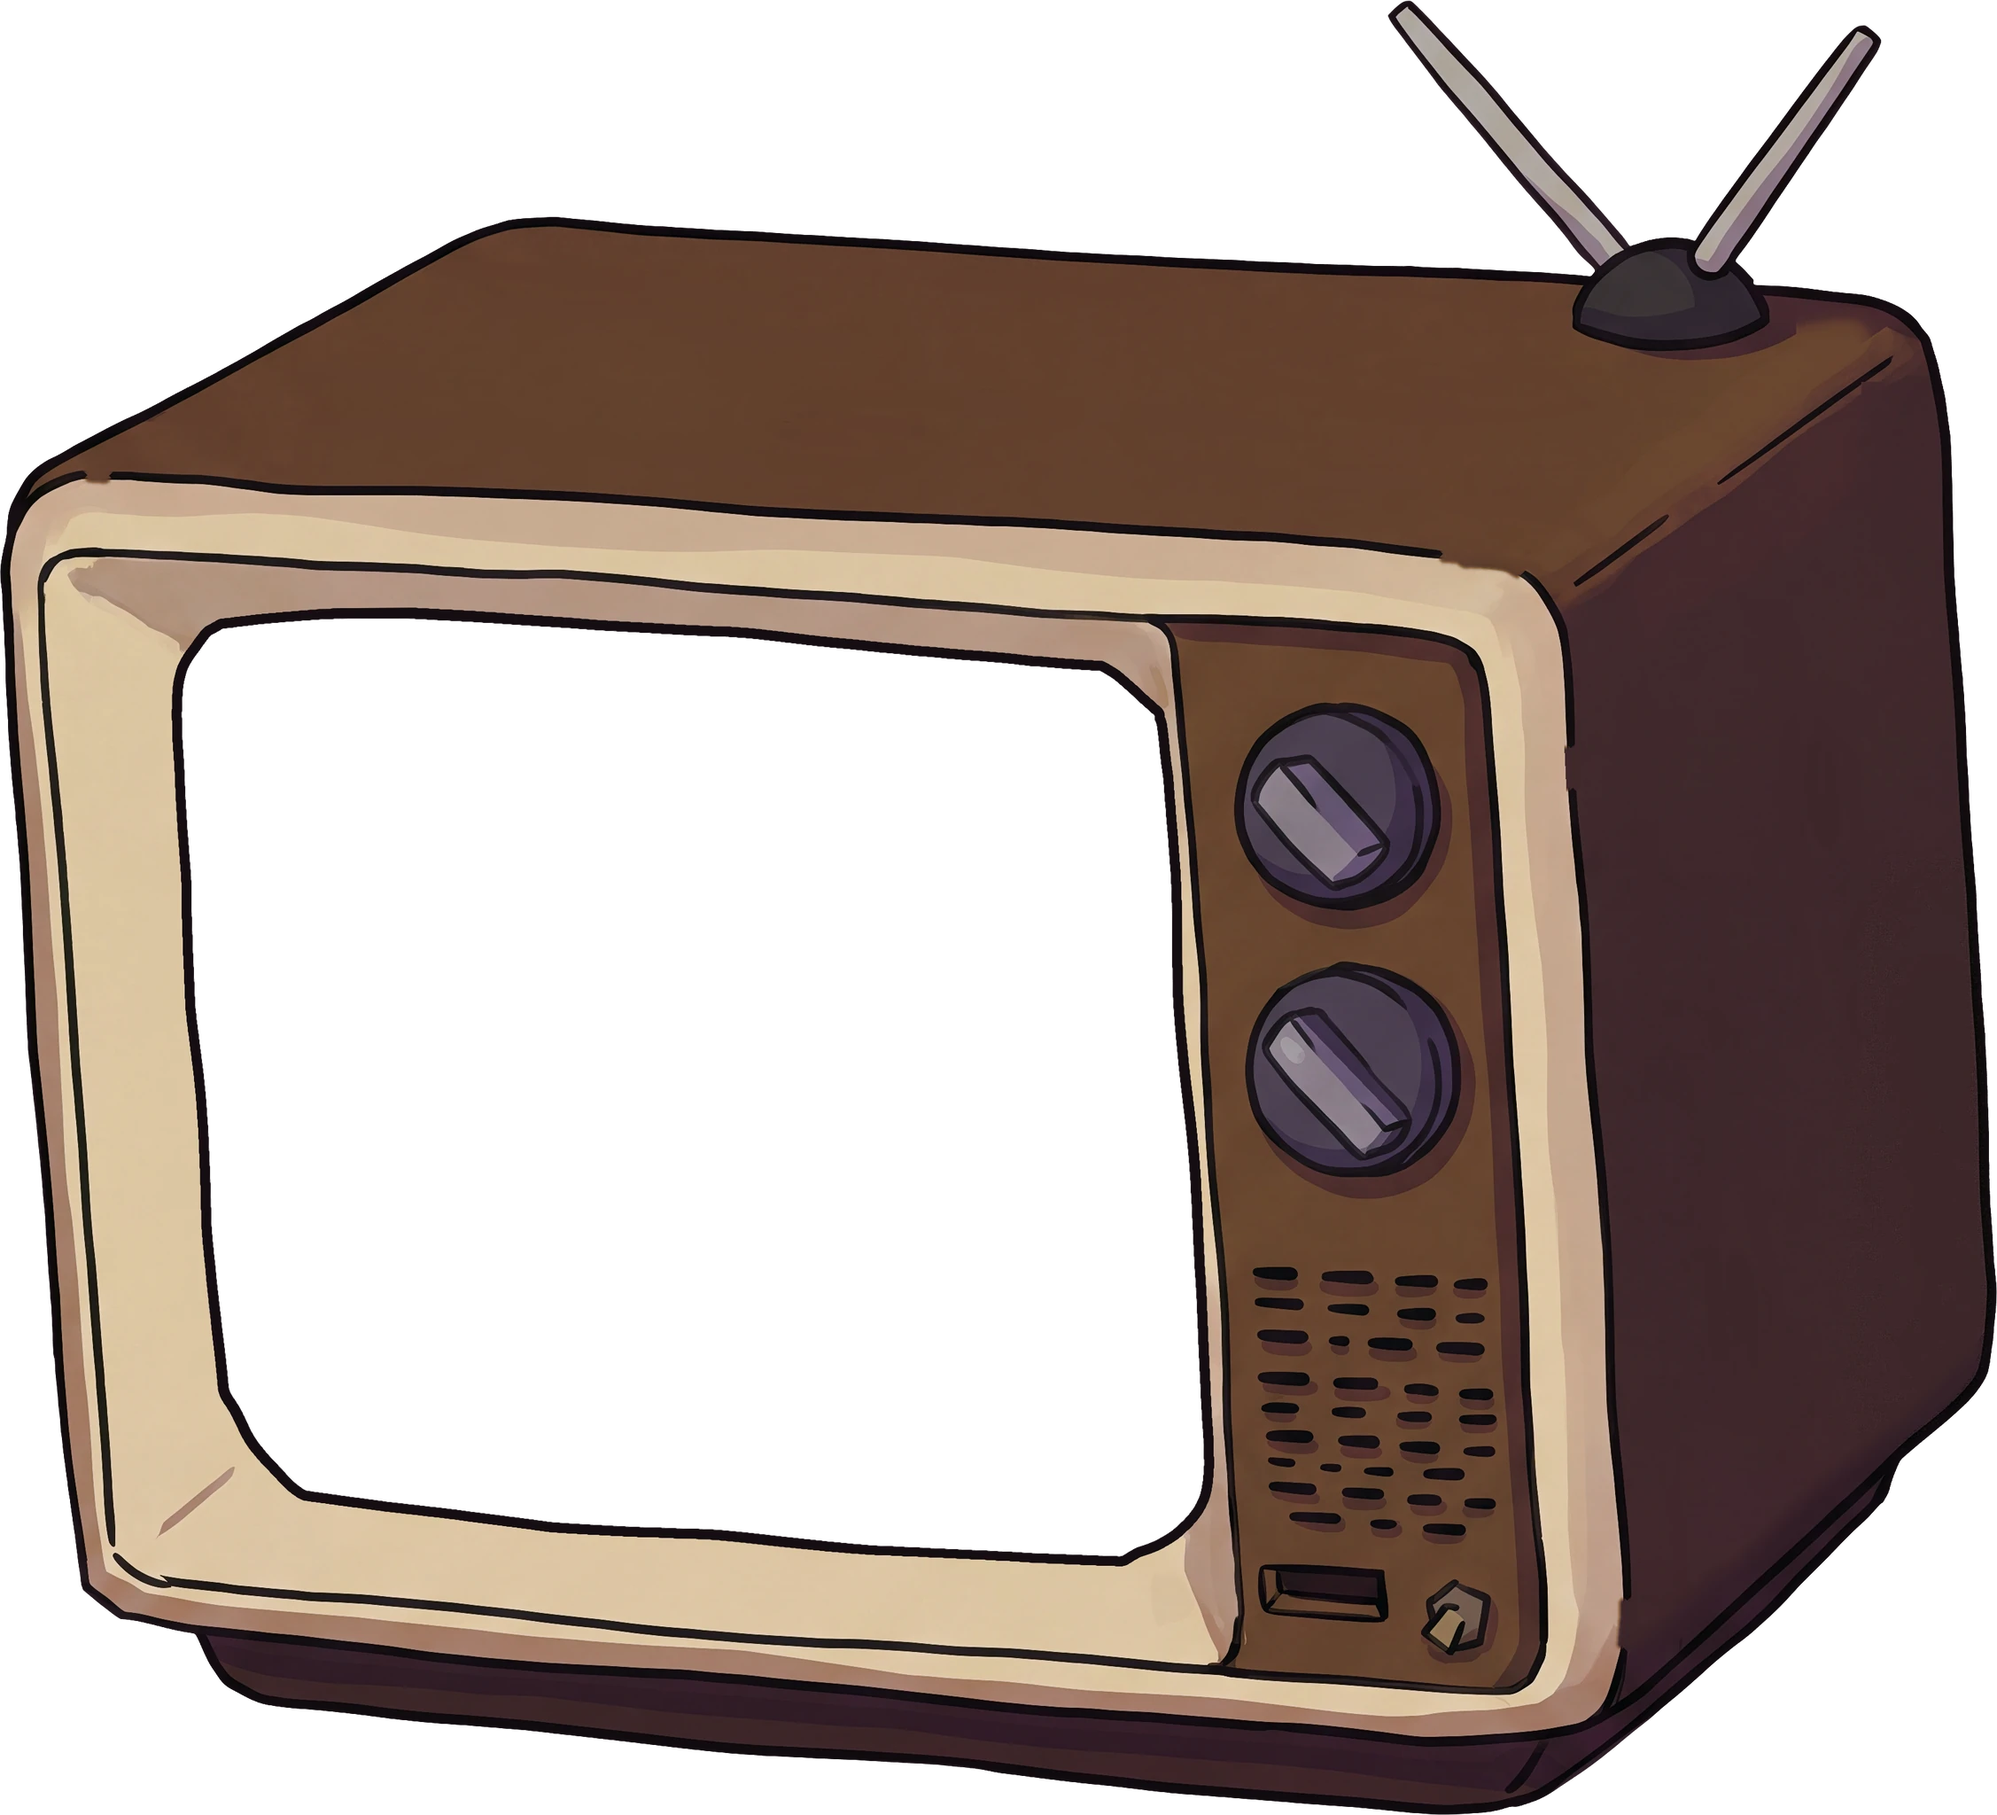
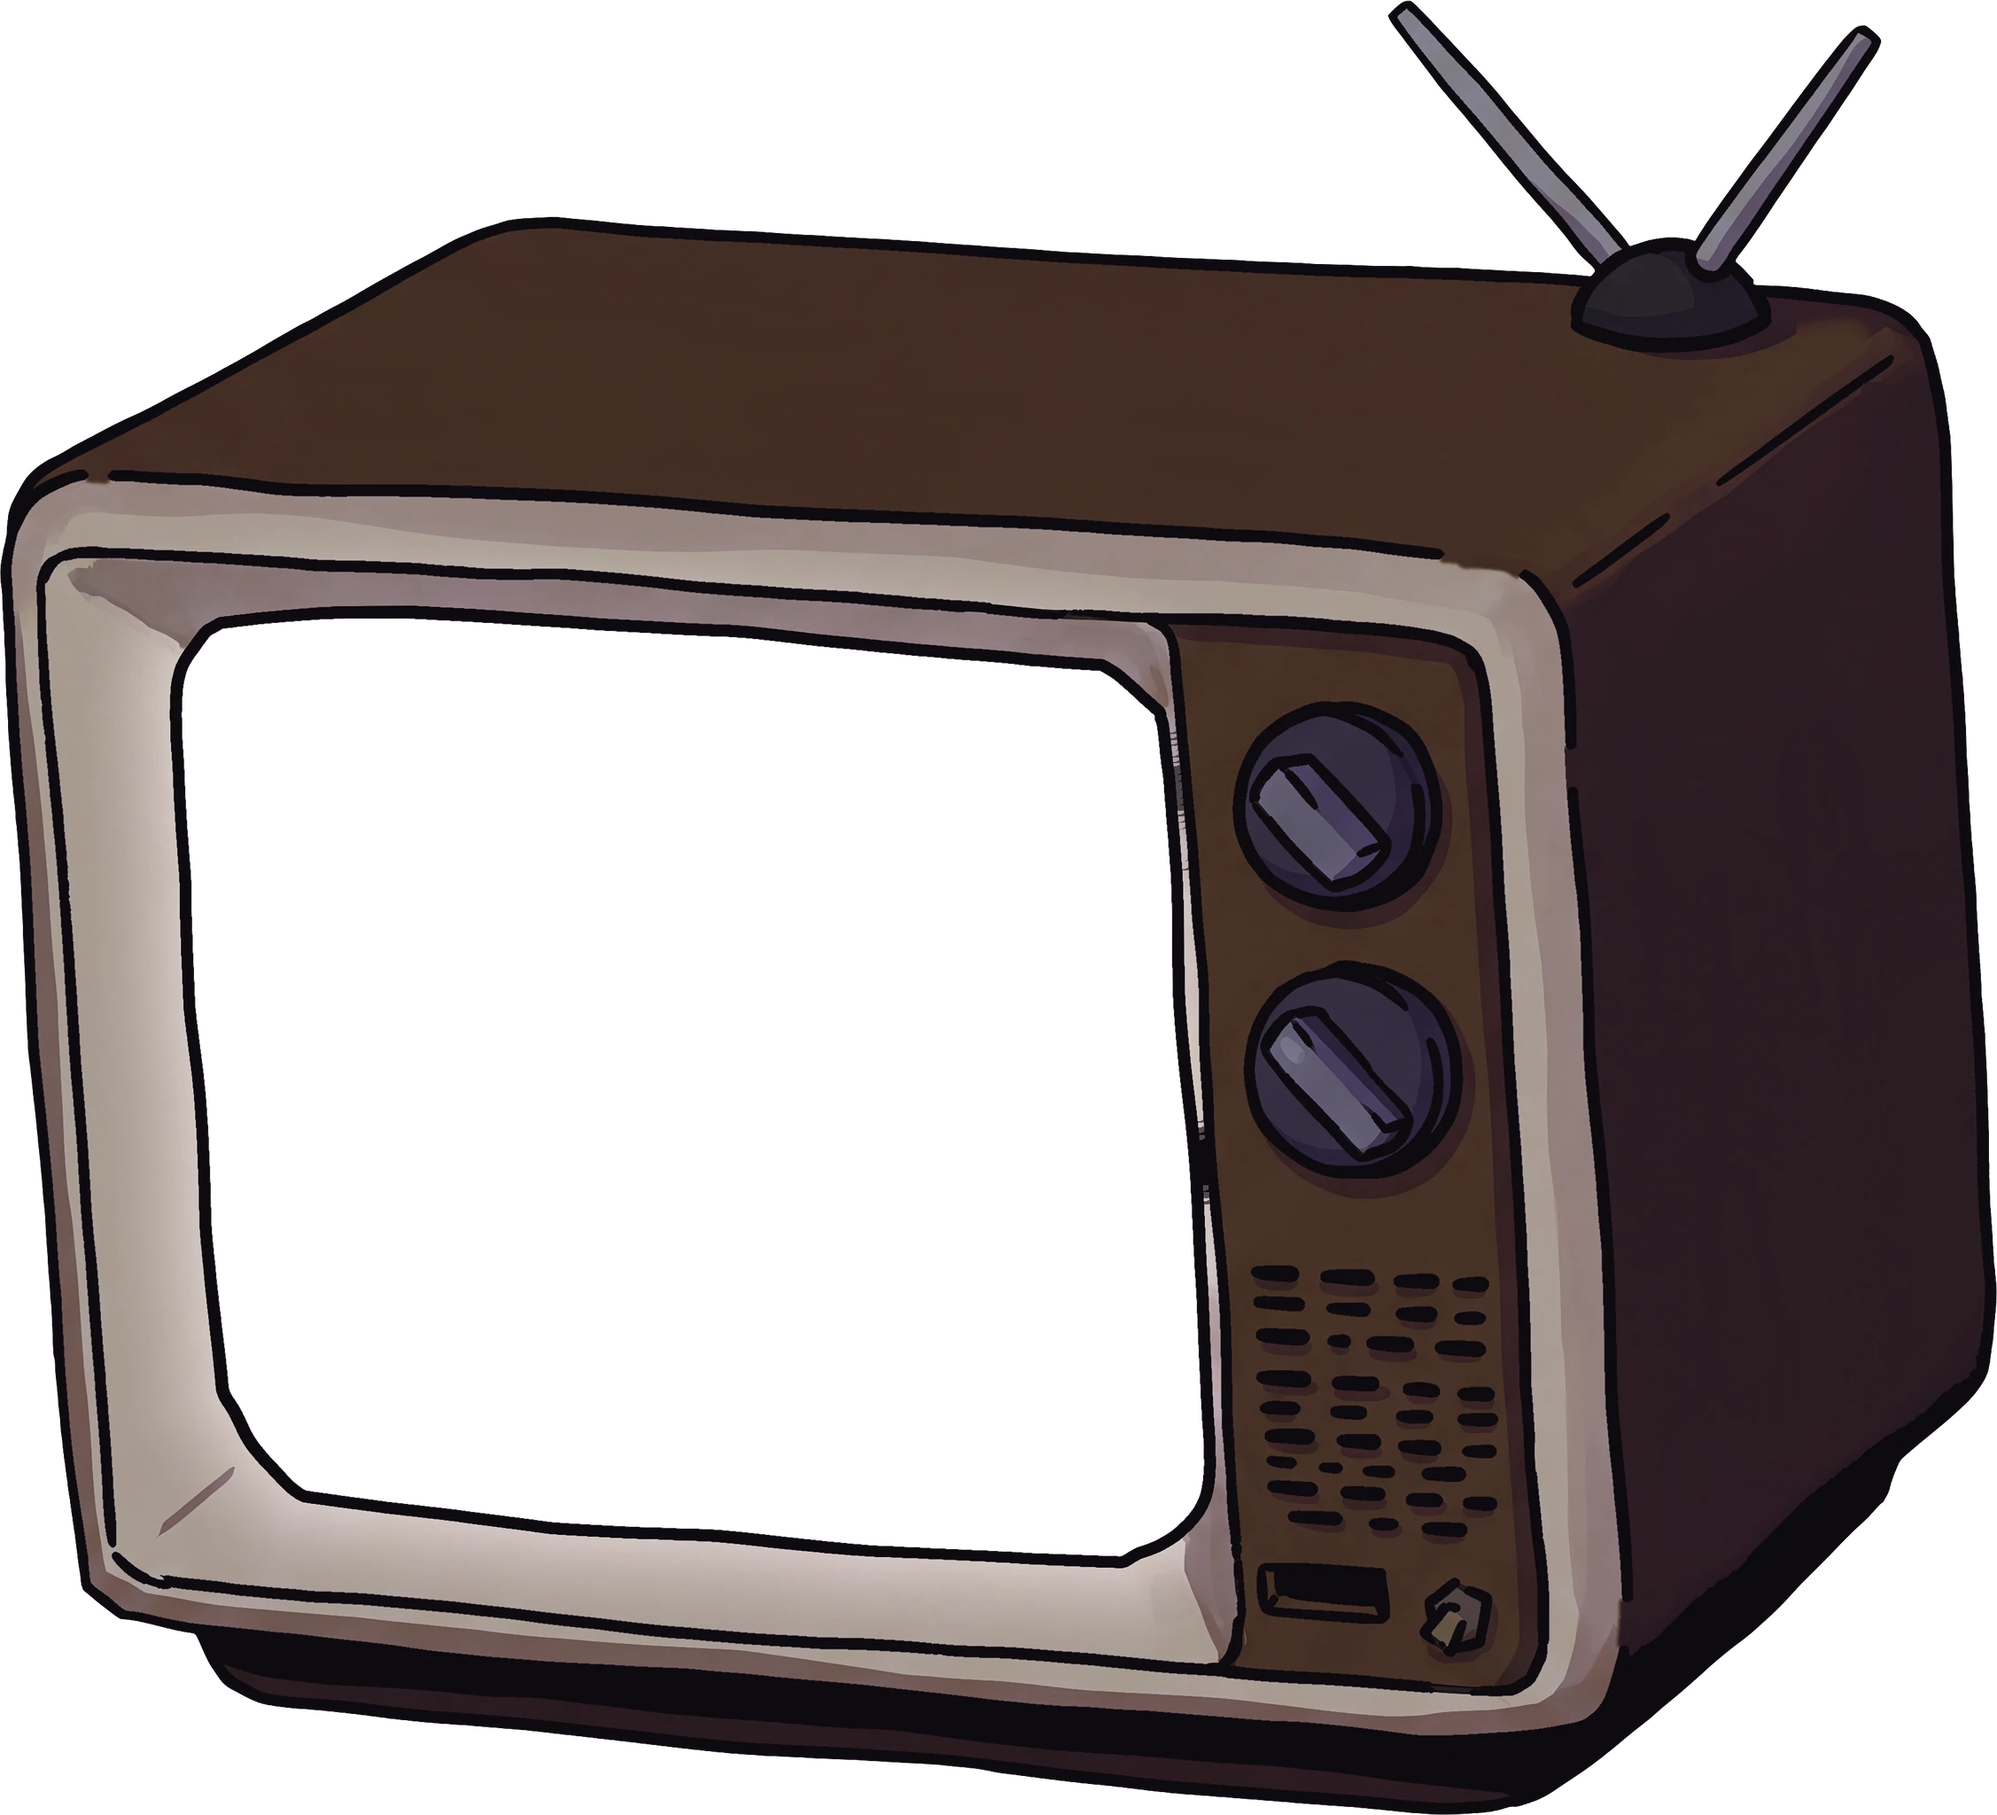
Tea room: round 3, the television standing small in the garden
The set read as a sticker on the lawn: a daylight cream and brown in a garden
that is nearly black-green, drawn with a finer pen than the plate. The stage
cannot tint a flat, so the night is painted into tv.webp itself, its ink line
is 3 px heavier each side, and the bezel takes a little of the tube's light
beside the glass. The document tells the hero's builder the pool of light and
the contact shadow the sheets were drawn with.

Claude-Session: https://claude.ai/code/session_01H1qqxvg7NVfd4R6U8xEdiX

diff --git a/docs/tea/gen/shared.md b/docs/tea/gen/shared.md
@@ -15,7 +15,8 @@ File names are the same. A builder who read the first version of this page needs
   set, on a 2160 x 3840 canvas (it was 1536 x 2752). Its geometry is all new: the table in its section.
 - `tv-face.webp` is 3602 x 3330 (it was 2752 x 2476): the same picture at its master's full size, with its
   plinth lengthened to the model's height. Every number of its geometry is new: the table in its section.
-- `tv.webp`: the same size and the same glass box. The glass's corners moved by up to 3 px.
+- `tv.webp`: the same size and the same glass box. The glass's corners moved by a few px. It now has the
+  garden's night painted into it, and a heavier ink line.
 - All three sets have new colours (the table in the television's section) and no wood grain.
 - `screen.webp`: the same size and the same geometry. Its paper is thinner (alpha 0.09 where plain, not 0.2),
   so the field's colour comes through clean, and the pale pixels along its ink lines are gone.
@@ -74,7 +75,7 @@ def crisp(rgb, radius=1.6, amount=1.6, reach=2):          # rgb: float array, he
 | `washi.webp` | 512, 512 | 6,320 | no | the paper tile. Tiles both ways. Its mean colour is the paper colour `#F1E6D0` |
 | `screen.webp` | 1776, 2000 | 292,690 | yes | one sliding screen: cedar frame and lattice opaque, the paper see-through |
 | `sheet-shadow.webp` | 384, 384 | 4,284 | yes | the one shadow under a sheet or a slip, as a nine-slice |
-| `tv.webp` | 2254, 2048 | 168,960 | yes | the little television, three-quarter view, cut out, its glass a hole |
+| `tv.webp` | 2254, 2048 | 135,520 | yes | the little television, three-quarter view, cut out, its glass a hole |
 | `tv-face.webp` | 3602, 3330 | 293,296 | yes | the same set seen from the front, whole, cut out, its glass a hole |
 | `tv-face-p.webp` | 2160, 3840 | 153,914 | yes | the same front picture at a phone's size, on a 9:16 canvas |
 | `shadow-example.webp` | 1620, 720 | 22,112 | yes | the worked example of a screen shadow: a lantern and a kettle |
@@ -206,9 +207,24 @@ of that material in the file, in the night key the set has in the garden:
 | Aerial rods, and their base | `rgb(174, 165, 156)`, `rgb(50, 40, 50)` |
 | Ink line | `rgb(21, 14, 18)` (the garden plate's is `rgb(16, 13, 14)`) |
 
+That table is `tv-face.webp` and `tv-face-p.webp`, which are lit evenly so that each chapter can light them.
 The stage has no filter and no blend mode, so a chapter that needs the set in another light (the cold room,
 the three gardens of the fall) makes its own graded copy of `tv-face.webp` by script and keeps the geometry
 below unchanged.
+
+**`tv.webp` has the garden's night painted into it**, because it stands in one place only, the garden at the
+top of the page, and nothing on the stage can tint it. Every colour of the table is multiplied by 0.72 (the
+wood, the knobs) to 0.80 (the pale frame) and cooled by `(0.95, 0.98, 1.12)`, so the wood in the light is
+`rgb(67, 46, 36)` and the frame `rgb(166, 154, 143)`. The frame takes up to 30% more light, a little blue,
+within 124 px of the glass: the tube's light on its own bezel. Its ink line is 3 px heavier each side than
+the faces', because it is only ever drawn small (the garden round says by how much).
+
+**What the hero adds round `tv.webp`** (3.1), as this page's sheets drew it. For a set drawn `w` wide and `h`
+tall with its top left at `x, y`: a contact shadow, a soft dark ellipse `1.02w` by `0.17h` at
+`x + 0.02w, y + 0.885h`, colour `rgb(8, 10, 18)`, alpha 0.8 at its middle and 0 at its edge; and the pool of
+the tube's light on the grass, a soft ellipse `1.9w` by `0.52h` at `x - 0.62w, y + 0.80h`, colour
+`rgb(150, 175, 235)`, alpha 0.3 at its middle and 0 at its edge, behind the set. Both are the hero's to make
+and tune. Without them the set floats: the last tile of the garden round's sheet shows it bare.
 
 All numbers are pixels of the file, `x, y` from its top left.
 
@@ -222,7 +238,7 @@ All numbers are pixels of the file, `x, y` from its top left.
 | Glass: width x height | 1154 x 1058 | 2229 x 1826 | 1337 x 1095 |
 | Glass: its four corners, clockwise from top left | (239, 716) (1294, 799) (1337, 1713) (322, 1662) | (462, 1050) (2501, 1044) (2507, 2667) (455, 2662) | (282, 625) (1502, 628) (1506, 1596) (270, 1593) |
 | Largest upright rectangle wholly inside the glass | 316, 799, 1248, 1655 | 482, 1046, 2485, 2688 | 289, 627, 1490, 1612 |
-| Ink line round the glass, at its thinnest | 10 px | 15 px | 8 px |
+| Ink line round the glass, at its thinnest | 12 px | 15 px | 8 px |
 | Made from its master at | 0.70 of its pixels | its full size | 0.60 |
 
 **The glass is a hole with a painted edge.** One unbroken ink line runs round it on the set's side, drawn by
@@ -511,6 +527,32 @@ The three weakest things:
    edge, and the last of the key colour in the cream there. The stained cream beside the glass is now evened
    in its light as well as its colour, and the strip the old line stood on is repainted from the paint just
    beyond it before the new line is drawn.
+
+### Round 3: the set standing small in the garden plate
+
+Frames drawn by a headless browser: the garden plate covering 1440 x 900, 1920 x 1080 and 2560 x 1440, the set
+at the place and size it has in the hero (lower left, 18.3% of the frame's width, as in look B and on the live
+page), an episode's picture behind its glass, and a pool of light and a contact shadow of the kind the hero
+will add. Beside them the live page's own poster at the same size. Sheets: `r3-garden-whole.jpg`,
+`r3-garden-100.png` (before), `r3-garden-after.png`.
+
+The three weakest things:
+
+1. **The set was lit from nowhere.** Its cream frame was the brightest thing in the garden after the house's
+   windows, and its wood a warm daylight brown on a lawn that is nearly black-green. It read as a sticker.
+   Nothing on the stage can tint a flat, so the night is painted into `tv.webp` itself: the whole set brought
+   down and cooled as the lawn round it is, the pale frame a little less than the wood.
+2. **Its ink line was half the garden's weight at the size it is drawn.** At 1440 x 900 the garden plate's
+   line is 2.3 px on the screen and the set's was 1.2 px, so the set looked drawn with a finer pen. The line in
+   `tv.webp` is now 3 px heavier each side (13 px in the file: 1.5 px on the screen at 1440, 2.7 px at 2560,
+   where the garden's is 3.6). Twice that was tried and thrown away: at 100% it filled in the slot and the
+   switch. A scrap of cream that the heavier lines closed in on beside the glass is inked over.
+3. **The tube lit nothing of its own set.** The frame beside a lit glass was as dark as the frame's far side.
+   The bezel nearest the glass now takes a little cool light from the tube, falling away within 124 px.
+
+What is not this piece's to fix, and is written into the television's section for the hero's builder: the
+pool of light on the grass and the contact shadow. With them the set stands on the lawn. Without them it
+floats (the sheet's last tile).
 
 ## Generation log
 
